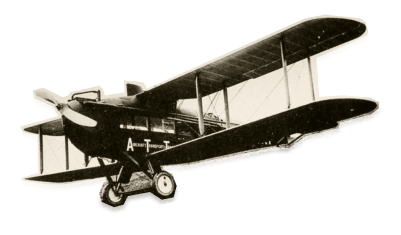
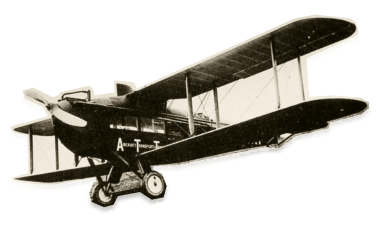
future: section steps without slider

Changed region(s): [[0.4377, 0.0596, 0.992, 0.7149], [0.0292, 0.3277, 0.4668, 0.8936]]

diff --git a/src/index.html b/src/index.html
@@ -117,39 +117,37 @@
         Этапы преображения Васюков
         <span class="steps__subtitle">Будущие источники обогащения васюкинцев</span>
       </h3>
-      <div class="card-list">
-        <ol class="card-list__grid">
-          <li class="card-list__item card-list__text">
-            Строительство железнодорожной магистрали Москва-Васюки
-          </li>
-          <li class="card-list__item card-list__text">
-            Открытие фешенебельной гостиницы «Проходная пешка» и&nbsp;других небоскрёбов
-          </li>
-          <li class="card-list__item card-list__text">
-            Поднятие сельского хозяйства в&nbsp;радиусе на&nbsp;тысячу километров: производство овощей, фруктов, икры,
-            шоколадных конфет
-          </li>
-          <li class="card-list__item card-list__text">
-            Строительство дворца для&nbsp;турнира
-          </li>
-          <li class="card-list__item card-list__text">
-            Размещение гаражей для&nbsp;гостевого автотранспорта
-          </li>
-          <li class="card-list__item card-list__text">
-            Постройка сверхмощной радиостанции для&nbsp;передачи всему миру сенсационных результатов
-          </li>
-          <li class="card-list__item card-list__text">
-            Создание аэропорта «Большие Васюки» с&nbsp;регулярным отправлением почтовых самолётов и&nbsp;дирижаблей во&nbsp;все&nbsp;концы
-            света, включая Лос-Анжелос и&nbsp;Мельбурн
-          </li>
-        </ol>
-        <picture>
-          <source srcset="<%=require('./images/steps/aeroplane.webp')%>" type="image/webp">
-          <img class="card-list__image" src="<%=require('./images/steps/aeroplane.png')%>"
-               alt="Аэроплан"
-               loading="lazy">
-        </picture>
-      </div>
+      <ol class="card-list">
+        <li class="card-list__item card-list__text">
+          Строительство железнодорожной магистрали Москва-Васюки
+        </li>
+        <li class="card-list__item card-list__text">
+          Открытие фешенебельной гостиницы «Проходная пешка» и&nbsp;других небоскрёбов
+        </li>
+        <li class="card-list__item card-list__text">
+          Поднятие сельского хозяйства в&nbsp;радиусе на&nbsp;тысячу километров: производство овощей, фруктов, икры,
+          шоколадных конфет
+        </li>
+        <li class="card-list__item card-list__text">
+          Строительство дворца для&nbsp;турнира
+        </li>
+        <li class="card-list__item card-list__text">
+          Размещение гаражей для&nbsp;гостевого автотранспорта
+        </li>
+        <li class="card-list__item card-list__text">
+          Постройка сверхмощной радиостанции для&nbsp;передачи всему миру сенсационных результатов
+        </li>
+        <li class="card-list__item card-list__text">
+          Создание аэропорта «Большие Васюки» с&nbsp;регулярным отправлением почтовых самолётов и&nbsp;дирижаблей во&nbsp;все&nbsp;концы
+          света, включая Лос-Анжелос и&nbsp;Мельбурн
+        </li>
+      </ol>
+      <picture>
+        <source srcset="<%=require('./images/steps/aeroplane.webp')%>" type="image/webp">
+        <img class="steps__image" src="<%=require('./images/steps/aeroplane.png')%>"
+             alt="Аэроплан"
+             loading="lazy">
+      </picture>
     </section>
 
     <section class="players page__container content__section content__section_last"></section>

diff --git a/src/blocks/card-list/card-list.css b/src/blocks/card-list/card-list.css
@@ -1,8 +1,4 @@
 .card-list {
-  position: relative;
-}
-
-.card-list__grid {
   display: grid;
   grid-template-columns: repeat(3, 1fr);
   grid-template-rows: repeat(3, 1fr);
@@ -11,7 +7,7 @@
 }
 
 .card-list__item {
-  padding: 20px 20px 20px 72px;
+  padding: 20px 40px 20px 72px;
   background-image:
       image-set(url('../../images/background/background-image.webp') type('image/webp'),
                 url('../../images/background/background-image.jpg') type('image/jpg')),
@@ -58,6 +54,7 @@
 .card-list__item:nth-child(7) {
   grid-column: span 2;
   grid-row: 3;
+  padding-right: 320px;
   background-color: var(--background-element);
 }
 
@@ -76,14 +73,6 @@
   align-items: center;
 }
 
-.card-list__item:nth-of-type(5) {
-  padding-right: 25px;
-}
-
-.card-list__item:last-of-type {
-  padding-right: 286px;
-}
-
 .card-list__text {
   font-family: var(--font-medium);
   font-style: normal;
@@ -93,10 +82,61 @@
   color: var(--text-color);
 }
 
-.card-list__image {
-  position: absolute;
-  bottom: -15px;
-  right: -60px;
-  max-width: 377px;
-  aspect-ratio: 401 / 235;
+@media (max-width: 1100px) {
+  .card-list {
+    grid-template-columns: repeat(2, 1fr);
+    grid-template-rows: repeat(4, 1fr);
+  }
+
+  .card-list__item:nth-child(3) {
+    grid-column: 1;
+    grid-row: 2;
+  }
+
+  .card-list__item:nth-child(4) {
+    grid-column: 2;
+    grid-row: 2;
+  }
+
+  .card-list__item:nth-child(5) {
+    grid-column: 1;
+    grid-row: 3;
+  }
+
+  .card-list__item:nth-child(6) {
+    grid-column: 2;
+    grid-row: 3;
+  }
+
+  .card-list__item:nth-child(7) {
+    grid-column: span 2;
+    grid-row: 4;
+    padding-right: 350px;
+  }
+}
+
+@media (max-width: 700px) {
+  /* временно, пока нет слайдера */
+  .card-list {
+    display: flex;
+    flex-direction: column;
+    gap: 0;
+    max-height: 300px;
+    overflow: hidden;
+  }
+
+  .card-list__item:nth-child(1) {
+    min-height: 150px;
+    padding-top: 62px;
+    padding-right: 20px;
+  }
+
+  .card-list__item:nth-child(1)::before {
+    top: 62px;
+  }
+
+  .card-list__item:nth-child(2) {
+    min-height: 150px;
+    padding-right: 20px;
+  }
 }

diff --git a/src/blocks/steps/steps.css b/src/blocks/steps/steps.css
@@ -1,4 +1,5 @@
 .steps {
+  position: relative;
   display: flex;
   flex-direction: column;
   gap: 54px;
@@ -30,11 +31,37 @@
   text-transform: none;
 }
 
-@media (max-width: 909px) {
+.steps__image {
+  max-width: 377px;
+  aspect-ratio: 377 / 235;
+  position: absolute;
+  bottom: 55px;
+  right: 20px;
+}
+
+@media (max-width: 1100px) {
   .steps__subtitle {
     margin-left: 0;
     margin-top: 12px;
     display: block;
     max-width: fit-content;
+  }
+
+  .steps__image {
+    bottom: 28px;
+    right: 5px;
+  }
+}
+
+@media (max-width: 700px) {
+  .steps {
+    gap: 148px;
+  }
+
+  .steps__image {
+    max-width: 335px;
+    bottom: 375px;
+    left: 50%;
+    transform: translateX(-50%);
   }
 }
